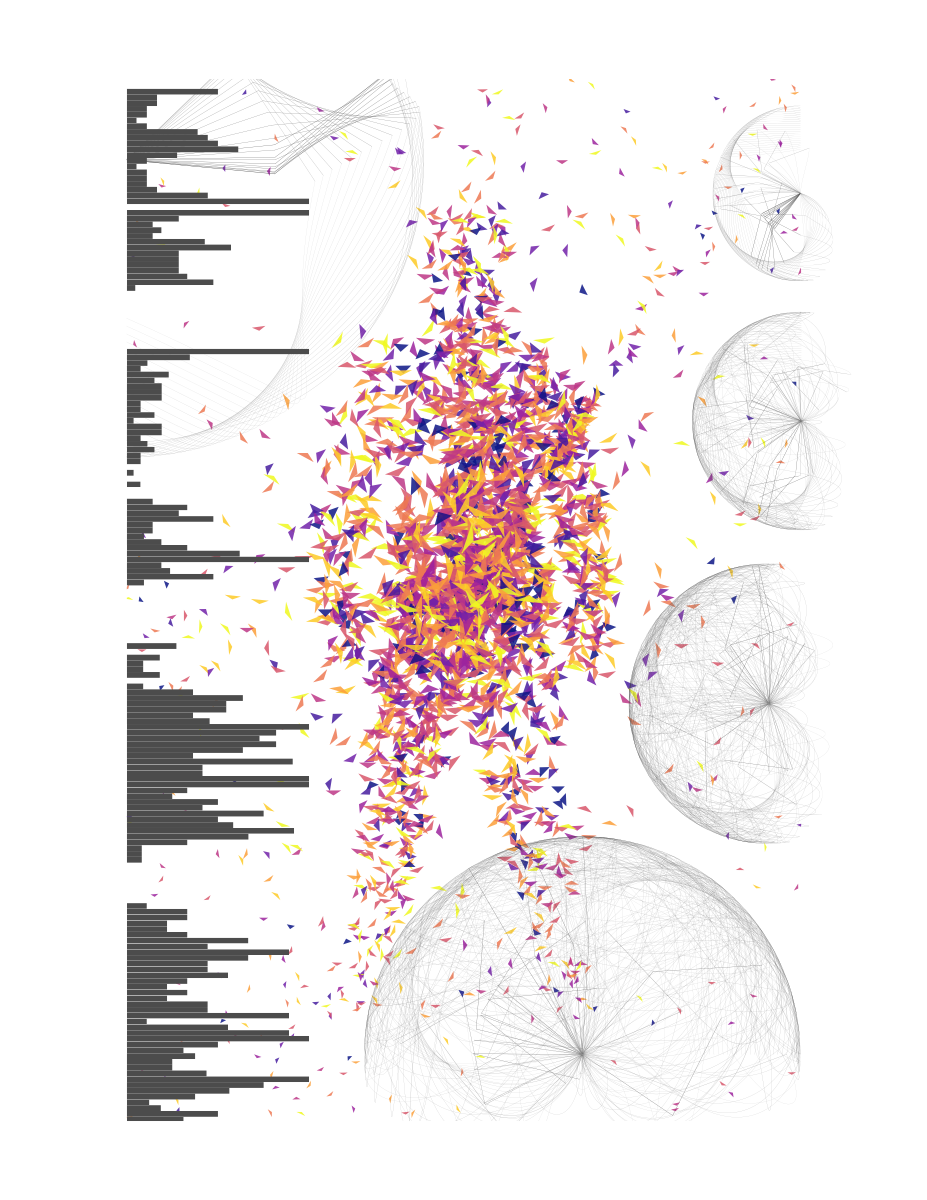
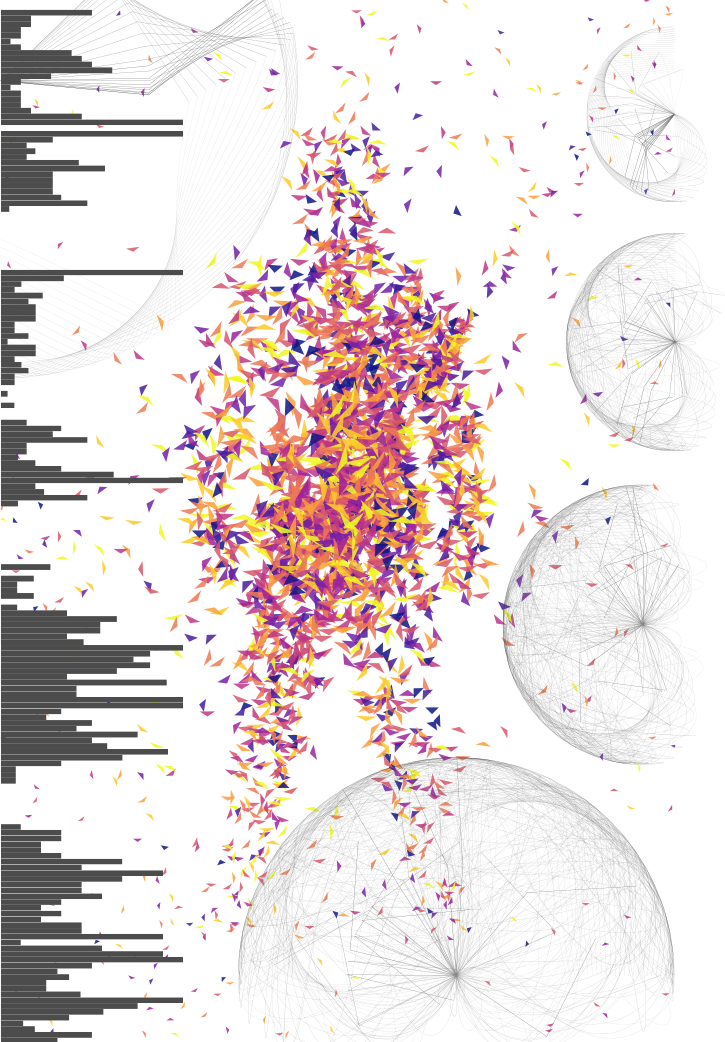
Crop Tree House and Scales of Design thumbnails; update project tiles
Trim white margins on the two 2026 PNGs. Reorder 2026 projects (Corn Fields,
Tree House, Scales of Design) and use shorter display titles for several items.

Made-with: Cursor

diff --git a/app/page.tsx b/app/page.tsx
@@ -329,10 +329,10 @@ type ResearchProject = {
 
 const researchProjects: ResearchProject[] = [
   {
-    title: 'Scales of Design',
+    title: 'Corn Fields',
     year: '2026',
-    href: '/papers/scales-of-design.pdf',
-    image: '/projects/scales-of-design.png',
+    href: '/papers/corn-fields.pdf',
+    image: '/projects/corn-fields.png',
   },
   {
     title: 'Tree House',
@@ -341,39 +341,39 @@ const researchProjects: ResearchProject[] = [
     image: '/projects/tree-house.png',
   },
   {
-    title: 'Corn Fields',
+    title: 'Scales of Design',
     year: '2026',
-    href: '/papers/corn-fields.pdf',
-    image: '/projects/corn-fields.png',
+    href: '/papers/scales-of-design.pdf',
+    image: '/projects/scales-of-design.png',
   },
   {
     title:
-      'Eigenjumps: analyzing human movement on tactile sensors via singular value decomposition and other linear algebra techniques',
+      'Eigenjumps',
     year: '2025',
     href: '/papers/eigenjumps.pdf',
     image: '/projects/eigenjumps.png',
   },
   {
-    title: 'Pressure Plates: Can Computers be Taught to Detect Jumps?',
+    title: 'Langevin Jump Detection',
     year: '2025',
     href: '/papers/pressure-plates.pdf',
     image: '/projects/pressure-plates.png',
   },
   {
     title:
-      'Vault One Mark I: Internal Validation Study of Uncalibrated Force-Sensing Mat for Vertical Jump Assessment',
+      'Force Plate Validation',
     year: '2025',
     href: '/papers/vault-one-mark-i.pdf',
     image: '/projects/vault-one-mark-i.png',
   },
   {
-    title: 'U.S. Patent — Force Sensors for Motion Assessment',
+    title: 'U.S. Patent — Force Sensors',
     year: '2025',
     href: '/papers/patent-force-sensors.pdf',
     image: '/projects/patent-force-sensors.png',
   },
   {
-    title: 'U.S. Patent — Method, Apparatus, and Systems for Fire Suppression Using Sound Waves',
+    title: 'U.S. Patent — Acoustic Fire Suppression',
     year: '2020',
     href: '/papers/patent-fire-sound.pdf',
     image: '/projects/patent-fire-sound.png',
